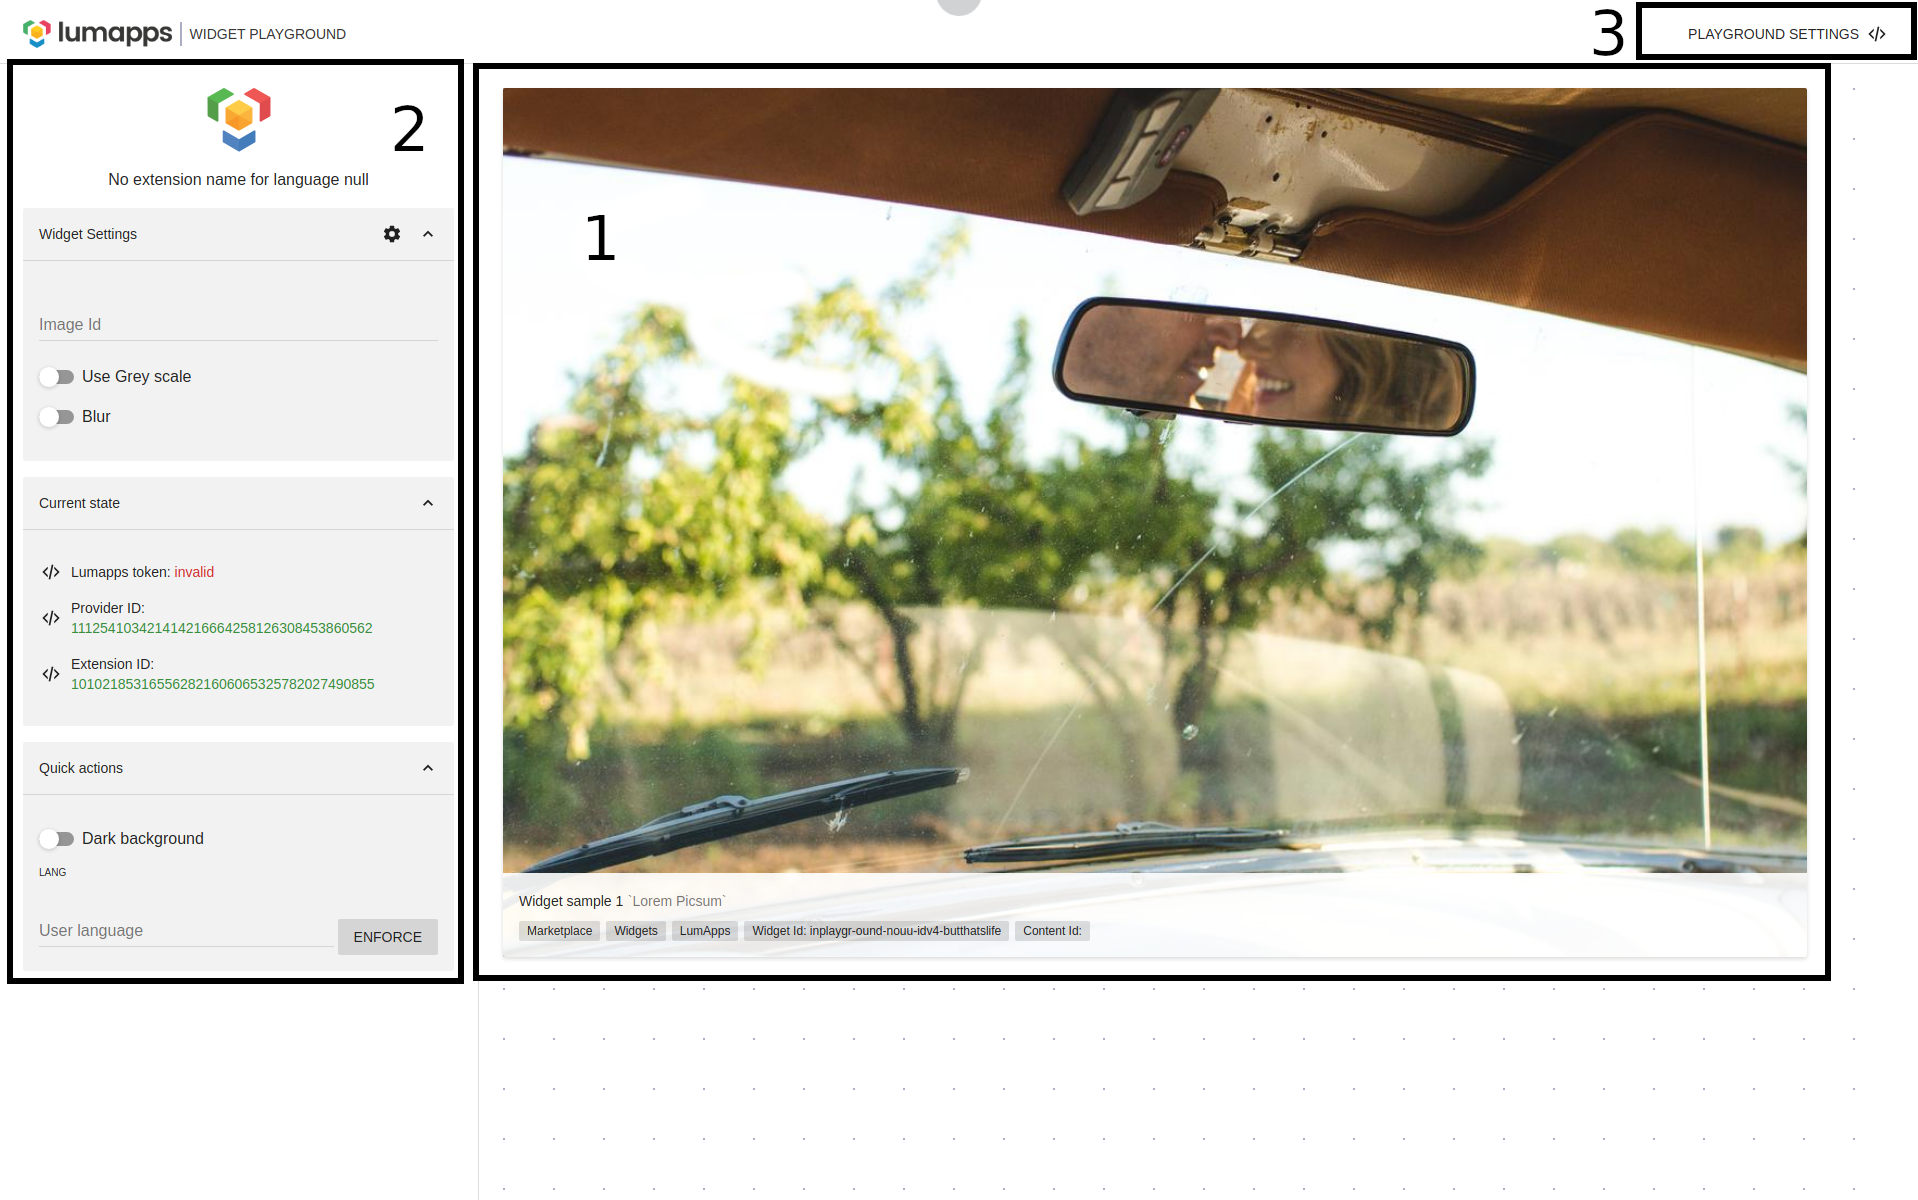
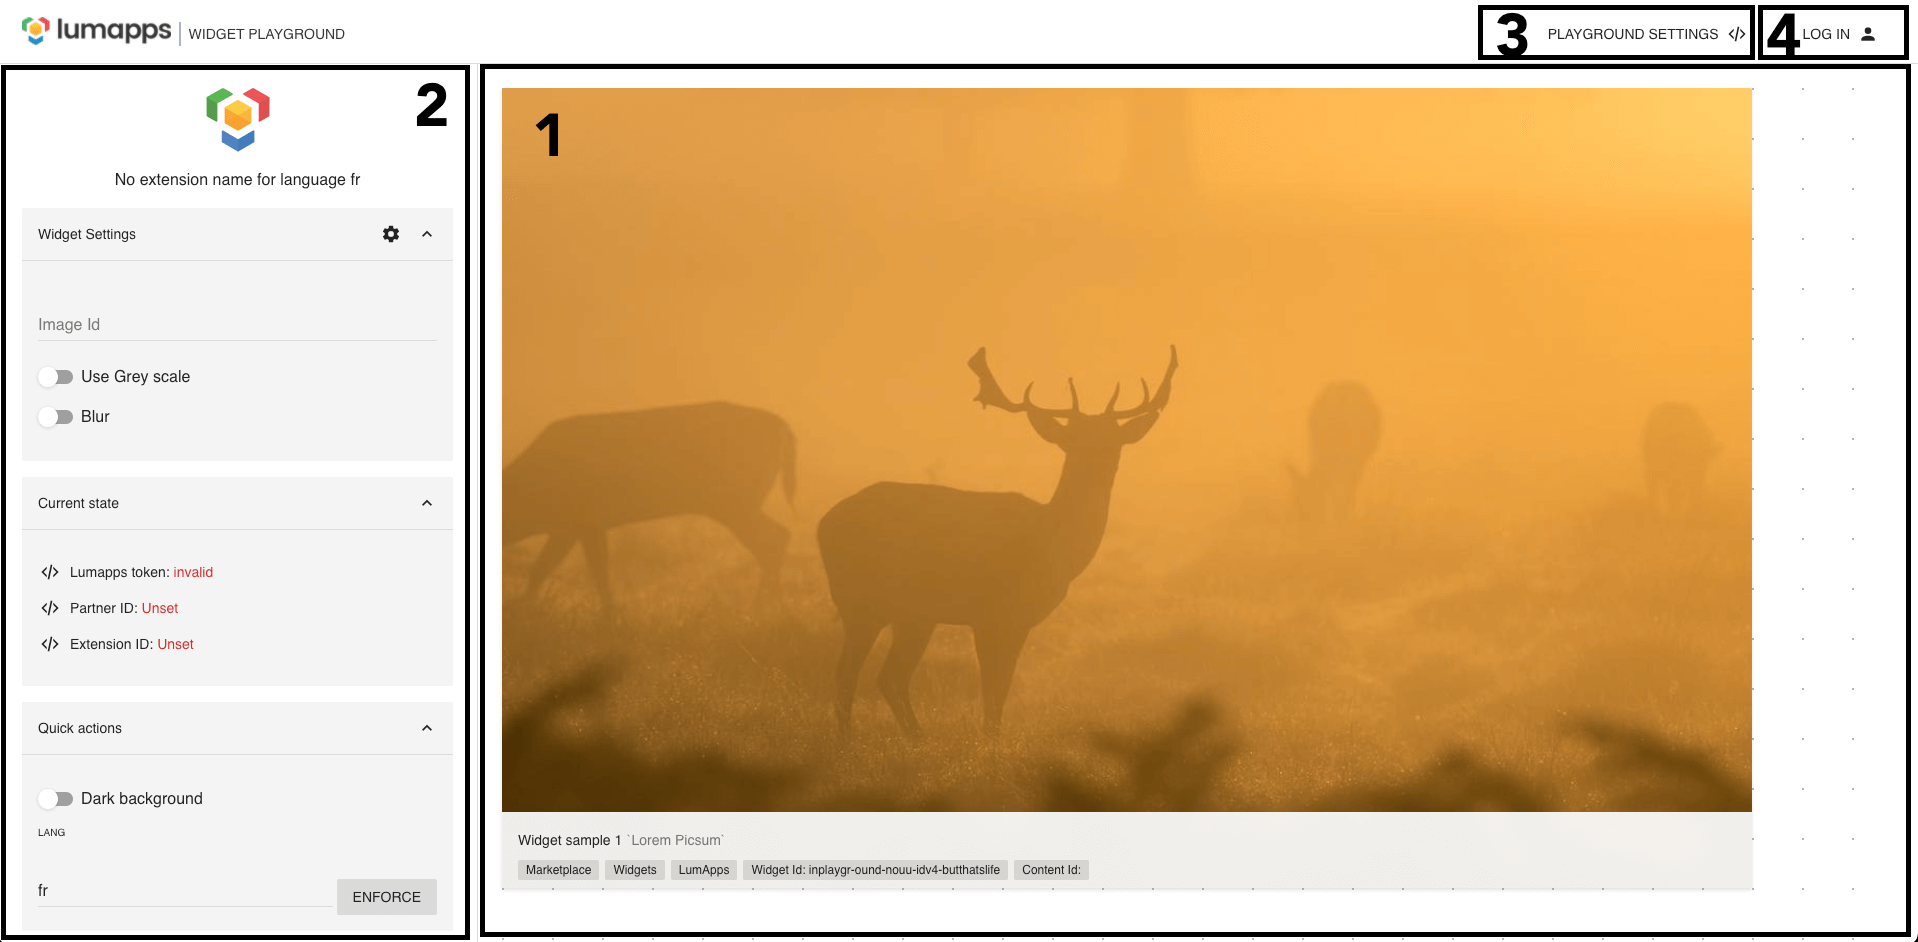
feat(doc): back office documentation
MP-359

diff --git a/docs/playground/structure.md b/docs/playground/structure.md
@@ -6,29 +6,43 @@ nav_order: 1
 ---
 
 # Playground structure
+
+## The playground
+
 The LumApps Extension playground is divied in 3 sections : 
 
 ![alt text](../playground.png "Playground")
 
-## 1. The extension render section
+### 1. The extension render section
 This is the main section of the playground, it render the main component of your extension.
 
-## 2. The side panel
+### 2. The side panel
 This section contains the settigns of the playground and your extension. 
 
-### Widget settings
+#### Widget settings
 In the section you can see and test the widget settings component. 
 The set up defined are directly reflected on you widget content.
 On the cogwheel you can find the global settings component in a dialog to emulate the administration panel.
 
-### Current state
+#### Current state
 In the current state section, you'll find the data related to your extension, the provider and extension IDs, and the Lumapps user token you've set in the Playground settings.
 
 
-### Quick actions
+#### Quick actions
 In the quick actions section you can set a user language to test the translation of your extension, and switch to Darl theme to check the render of your extension content composant.
-## 3. The Playground settigns
+### 3. The Playground settings
 Here you can configure the extension playground.
+
+### 4. Login / access to back office
+You can log in to your lumapps environment from this button. This will allow you to automatically retrieve your lumapps token. When logged in you can access the back office of the playground.
+
+## 2. Back office
+
+![alt text](../back-office.png "Back office")
+
+You can find the back office menu (1), the list and informations about your deployed extensions (2).
+
+You can navigate between the back office and the playground and log out from your account by accessing the menu under your avatar (3).
 
 ### Lumapps context
 In the playground settings dialog you can set some contextual data.
